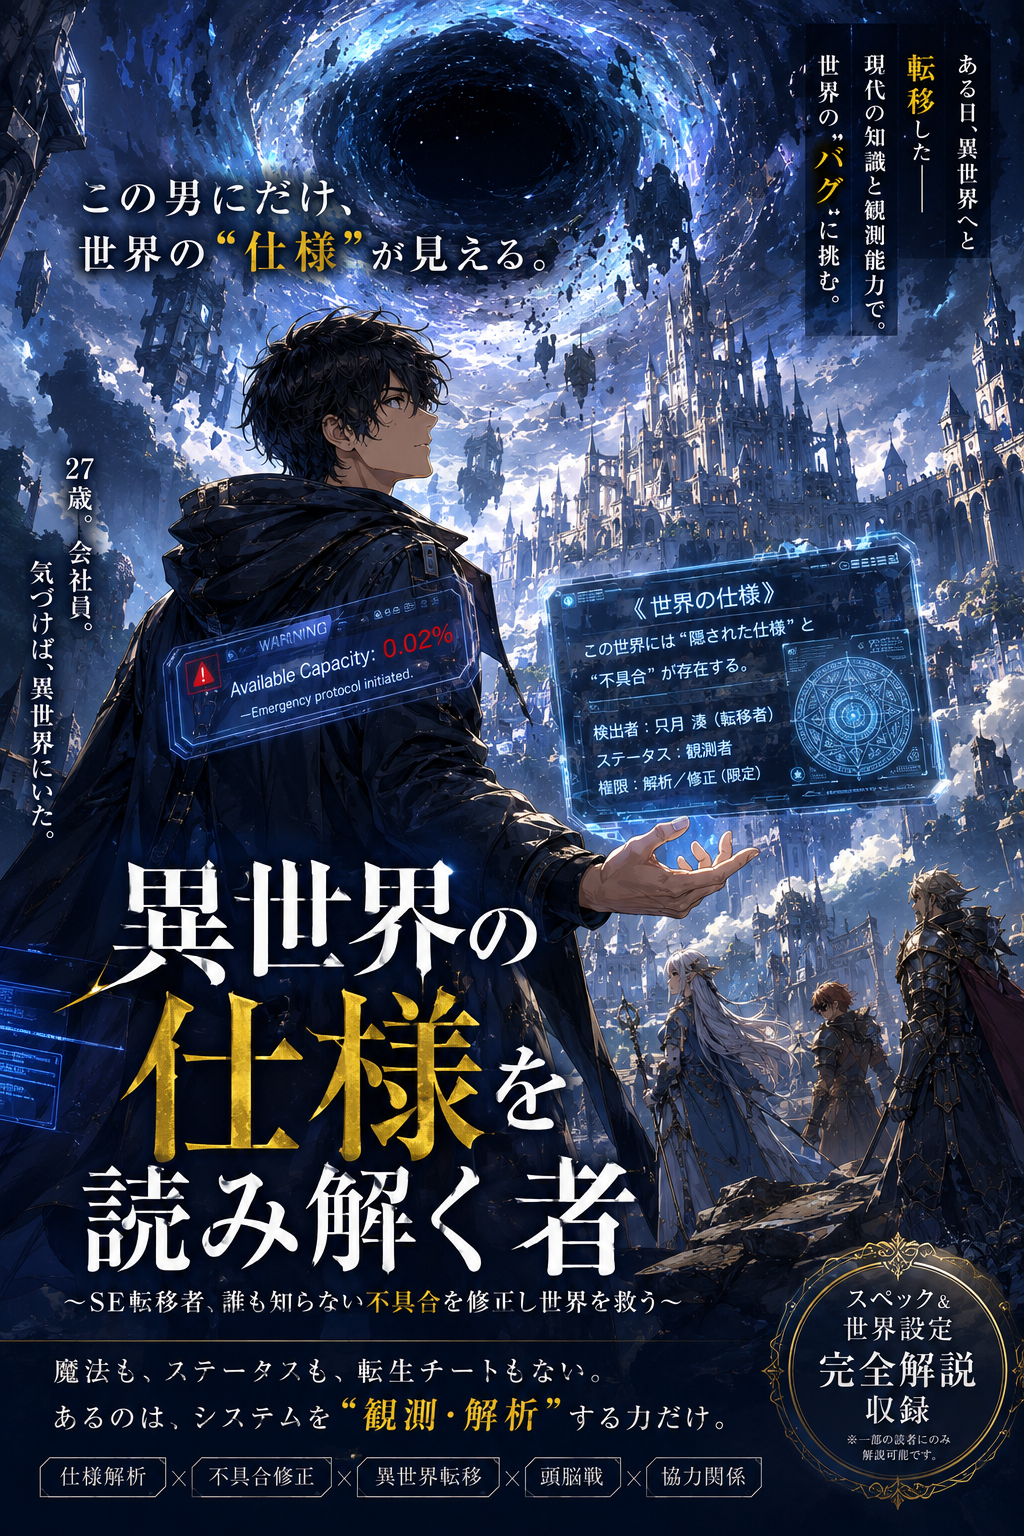
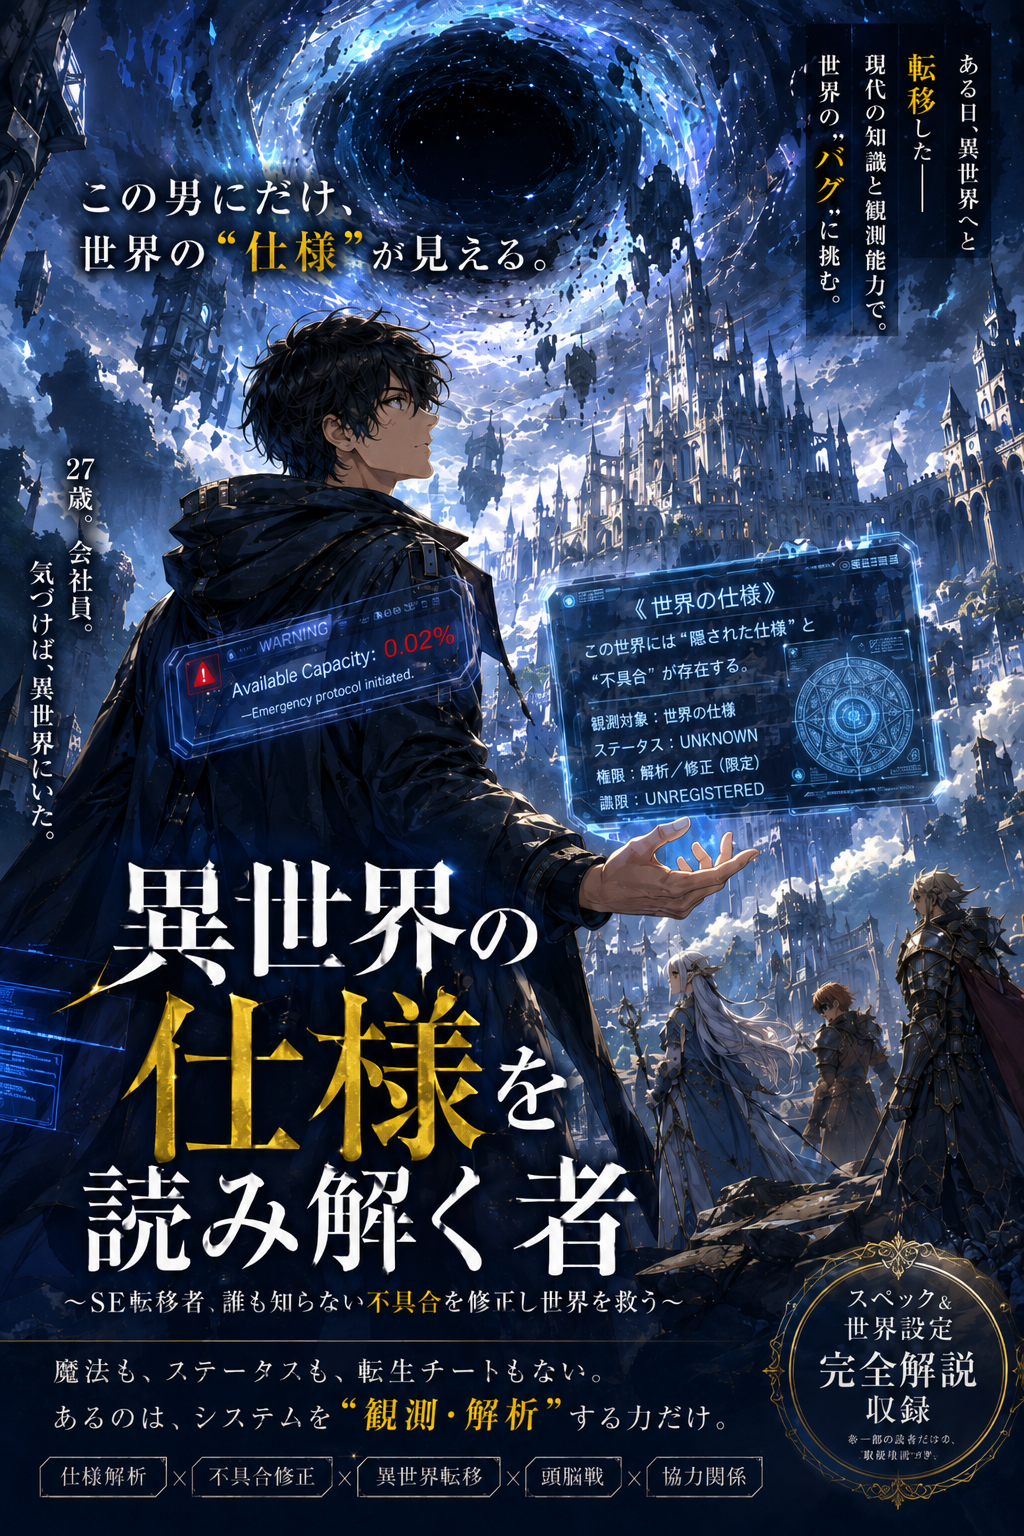
サブタイトルを「SE転移者」に修正し、キービジュアルを追加

diff --git a/README.md b/README.md
@@ -13,9 +13,13 @@
 
 ### 仮サブタイトル
 
-**～SE転生者、誰も知らない不具合を修正し世界を救う～**
+**～SE転移者、誰も知らない不具合を修正し世界を救う～**
 
 ※サブタイトルは今後変更可能。
+
+## キービジュアル
+
+contents\images\key-visual.png
 
 ---
 
@@ -733,12 +737,6 @@ Available Capacity: 0.02%
 > 世界が終わるとき、誰がそれを覚えているのだろう。
 
 ---
-
-# 現時点の未確定事項
-
-## 転生か転移か
-
-キービジュアル・サブタイトル：
 
 **「SE転生者」**
 
